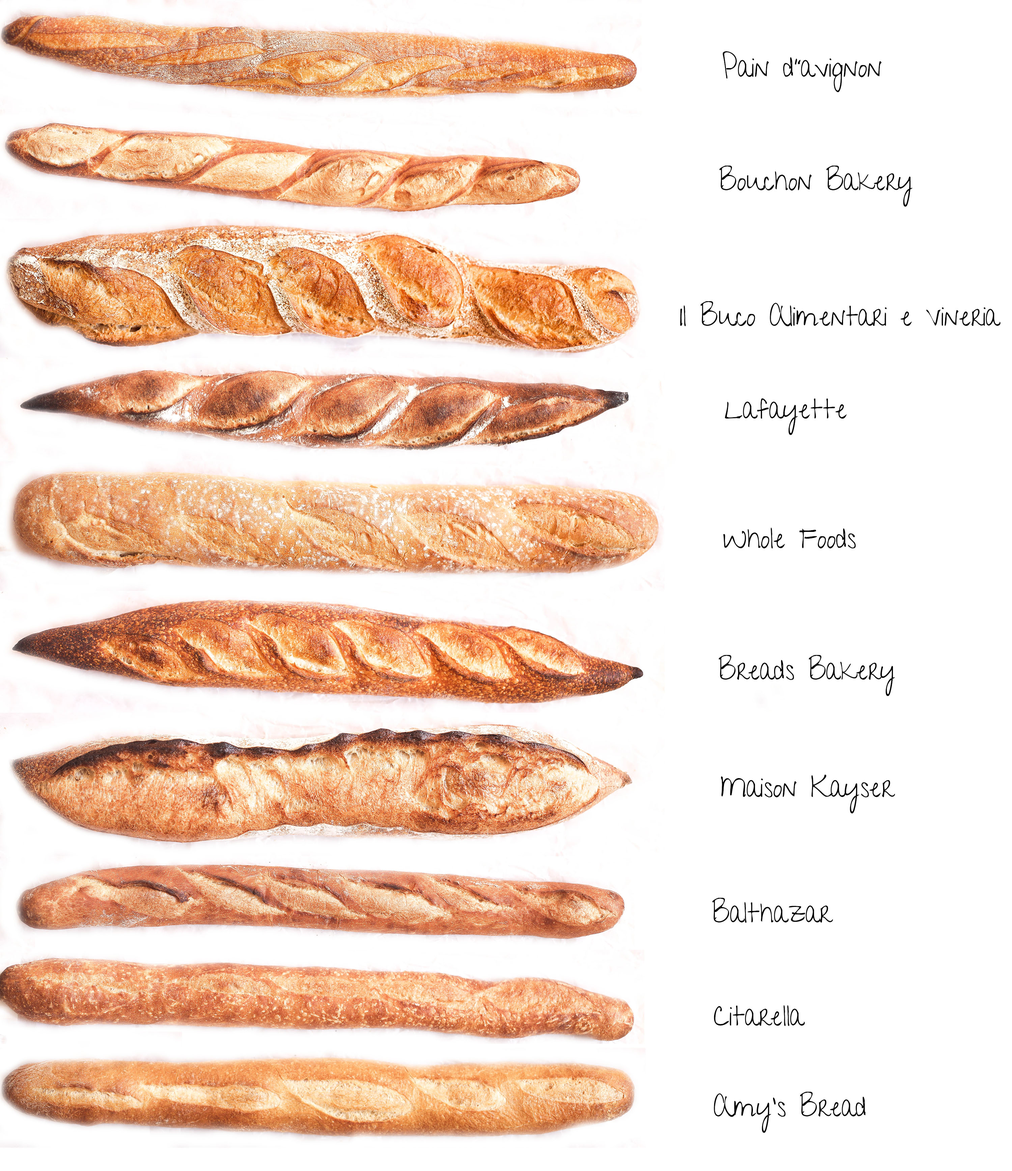
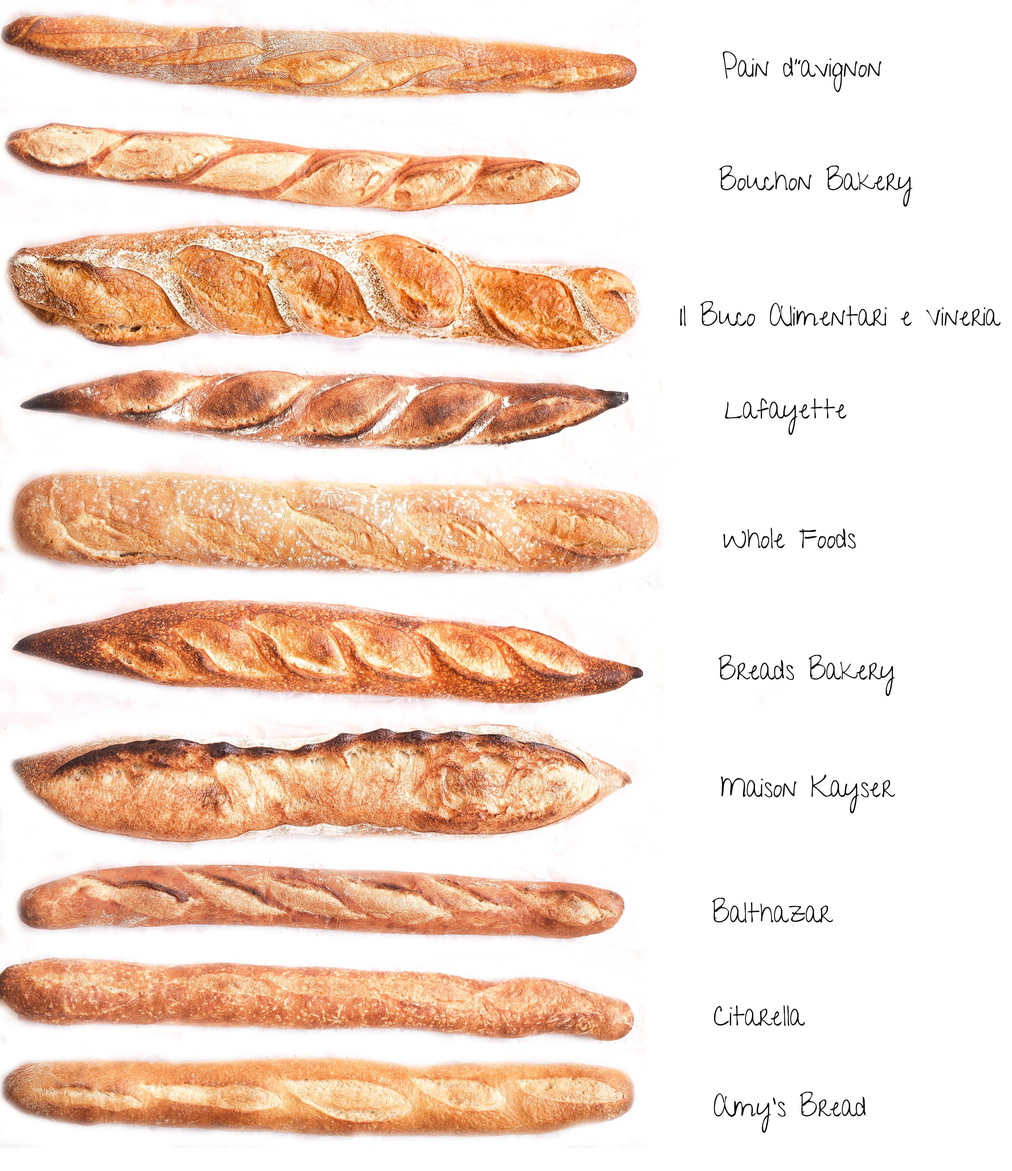
이미지 파일 최적화
민호

04.21.16

diff --git a/baguetteUser/src/main/webapp/css/header.css b/baguetteUser/src/main/webapp/css/header.css
@@ -1,6 +1,7 @@
 html body{
     height: 100%;
 }
+
 .header{
     margin: 0 px;
     height: 48px;
@@ -8,6 +9,10 @@ html body{
     position: fixed;
     z-index: 1000;
     background-color:black;
+}
+
+#menuPanel, .main-content{
+    margin-top: 50px;
 }
 
 .main-content{
